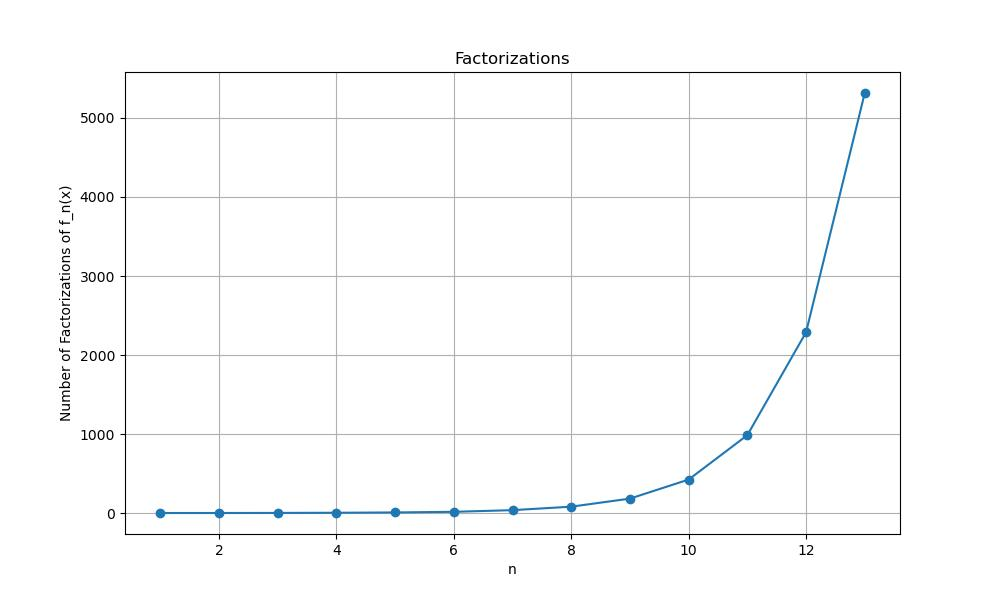
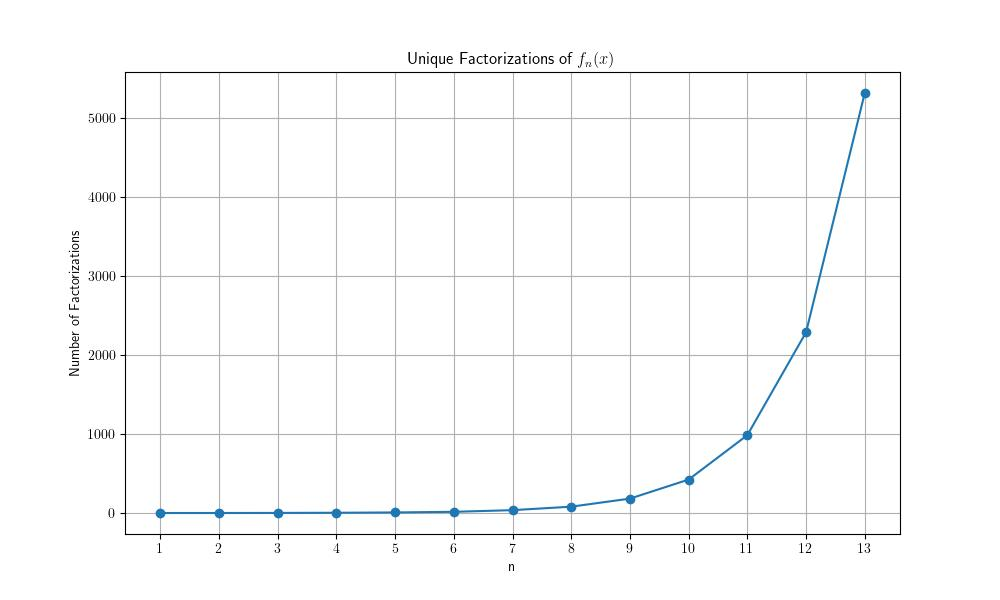
added ratio image

diff --git a/format.py b/format.py
@@ -109,22 +109,38 @@ def calc_ratios(data,offset_dict=None):
         prev = curr         
     return ratios
 
-def write_img(data, file="factorization.jpg"):
+def factorization_img(data, file="factorization.jpg"):
     import matplotlib.pyplot as plt
+    plt.rcParams['text.usetex'] = True
 
     keys = sorted(data.keys())
     n = [n+1 for n in range(len(keys))]
     values = [len(data[k]) if isinstance(data[k], list) else data[k] for k in keys]
 
     plt.figure(figsize=(10, 6))
-    plt.plot(n, values, marker='o')
+    plt.plot(n, values, marker='o',)
+    plt.xticks(n)
     plt.xlabel('n')
-    plt.ylabel('Number of Factorizations of f_n(x)')
-    plt.title('Factorizations')
+    plt.ylabel('Number of Factorizations')
+    plt.title('Unique Factorizations of $f_n(x)$')
     plt.grid(True)
     plt.savefig(file)
     plt.close()
 
+def ratio_img(values, file="ratio.jpg"):
+    import matplotlib.pyplot as plt
+    plt.rcParams['text.usetex'] = True
+    n = [i+2 for i in range(len(values))]
+
+    plt.figure(figsize=(10, 6))
+    plt.plot(n, values, marker='o',)
+    plt.xticks(n)
+    plt.xlabel('n')
+    plt.ylabel('Ratio')
+    plt.title('Ratio of the Number of Factorizations of $f_n(x)$')
+    plt.grid(True)
+    plt.savefig(file)
+    plt.close()
 
 
 if __name__ == "__main__":
@@ -133,6 +149,7 @@ if __name__ == "__main__":
             
     data = int_keys(data)
     data = get_pow_2(data)
-    write_img(data)
-
+    #factorization_img(data)
+    ratio_img(calc_ratios(data)[1:])
+    
 
